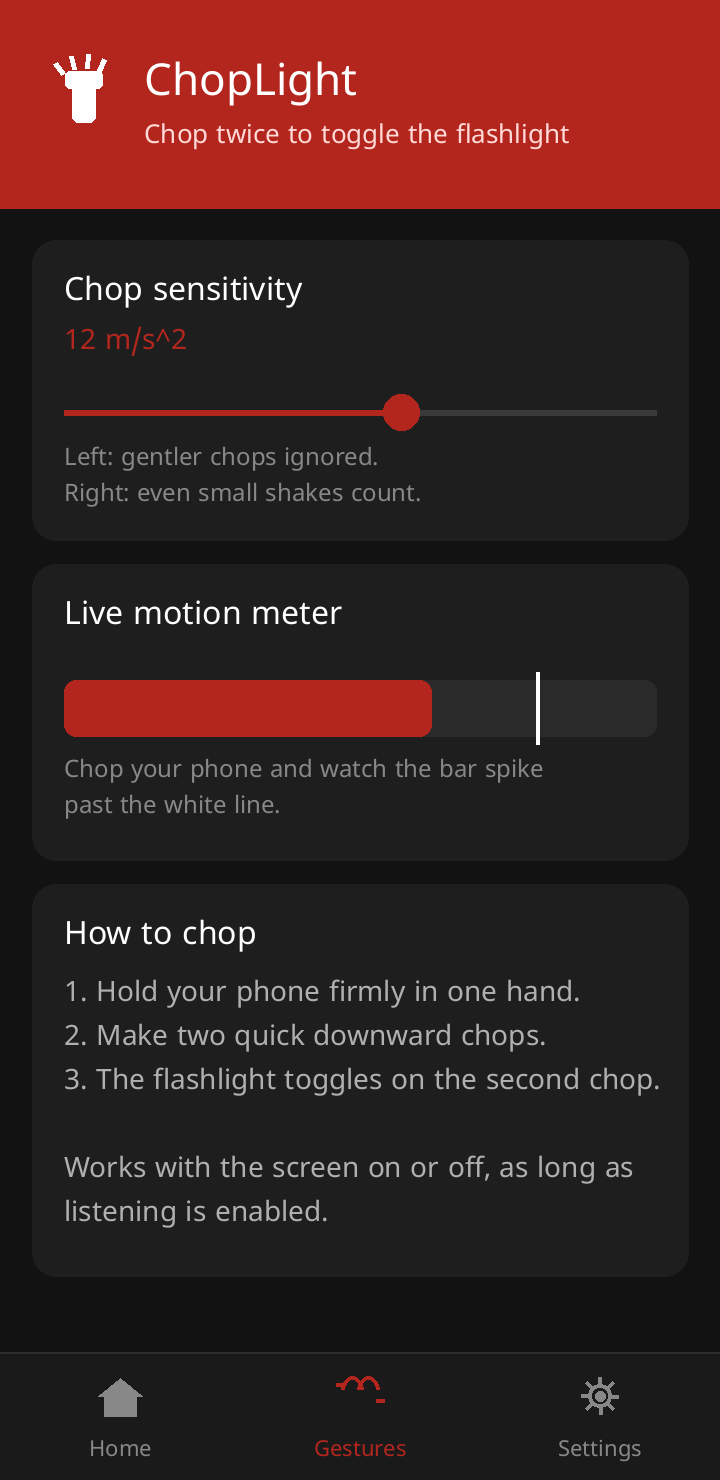
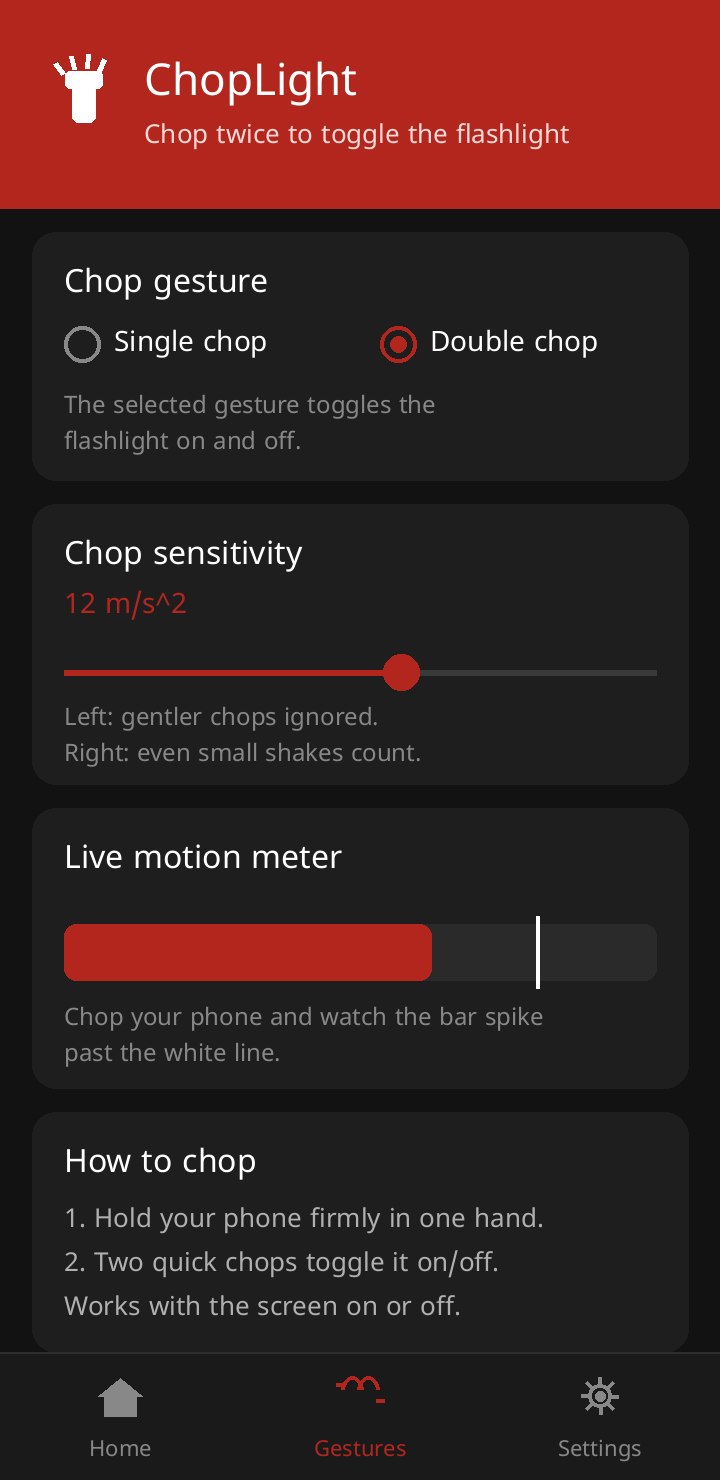
Selectable single/double chop gesture (v1.0.0)
- New 'Chop gesture' option in Gestures tab: Single chop / Double chop
  (default Double chop); selected gesture toggles the flashlight
- Mode-aware detection handler with 2.5s cooldown, live mode switching
- Updated how-to text per mode; re-rendered gestures screenshot
- versionName 1.0.0 (vc3)

diff --git a/app/src/main/java/com/deon/choplight/MainActivity.kt b/app/src/main/java/com/deon/choplight/MainActivity.kt
@@ -17,6 +17,7 @@ import android.os.Bundle
 import android.provider.Settings
 import android.view.View
 import android.widget.Button
+import android.widget.RadioGroup
 import android.widget.SeekBar
 import android.widget.Switch
 import android.widget.TextView
@@ -41,6 +42,10 @@ class MainActivity : Activity(), SensorEventListener {
     private lateinit var seekSensitivity: SeekBar
     private lateinit var tvSensitivityValue: TextView
     private lateinit var motionMeter: MotionMeterView
+    private lateinit var radioGesture: RadioGroup
+    private lateinit var tvHowto: TextView
+    private lateinit var tvHomeTip: TextView
+    private var gestureRadioGuard = false
 
     private var sensorManager: SensorManager? = null
     private var meterActive = false
@@ -67,6 +72,24 @@ class MainActivity : Activity(), SensorEventListener {
         seekSensitivity = findViewById(R.id.seek_sensitivity)
         tvSensitivityValue = findViewById(R.id.tv_sensitivity_value)
         motionMeter = findViewById(R.id.motion_meter)
+        radioGesture = findViewById(R.id.radio_gesture)
+        tvHowto = findViewById(R.id.tv_howto)
+        tvHomeTip = findViewById(R.id.tv_home_tip)
+
+        gestureRadioGuard = true
+        radioGesture.check(
+            if (prefs.gestureMode == GestureMode.SINGLE) R.id.radio_single
+            else R.id.radio_double
+        )
+        gestureRadioGuard = false
+        radioGesture.setOnCheckedChangeListener { _, checkedId ->
+            if (gestureRadioGuard) return@setOnCheckedChangeListener
+            prefs.gestureMode =
+                if (checkedId == R.id.radio_single) GestureMode.SINGLE
+                else GestureMode.DOUBLE
+            refreshGestureTexts()
+        }
+        refreshGestureTexts()
 
         navHome.setOnClickListener { showPage(0) }
         navGestures.setOnClickListener { showPage(1) }
@@ -199,6 +222,22 @@ class MainActivity : Activity(), SensorEventListener {
     private fun updateSensitivityLabel() {
         val t = prefs.peakThreshold
         tvSensitivityValue.text = String.format("%.0f m/s^2", t)
+    }
+
+    // ---------- gesture mode ----------
+
+    private fun refreshGestureTexts() {
+        if (prefs.gestureMode == GestureMode.SINGLE) {
+            tvHowto.text = "1. Hold your phone firmly in one hand.\n" +
+                "2. One quick chop toggles the flashlight on or off.\n" +
+                "\nWorks with the screen on or off, as long as listening is enabled."
+            tvHomeTip.text = "Tip: one quick chop toggles the torch on or off."
+        } else {
+            tvHowto.text = "1. Hold your phone firmly in one hand.\n" +
+                "2. Two quick downward chops toggle the flashlight on or off.\n" +
+                "\nWorks with the screen on or off, as long as listening is enabled."
+            tvHomeTip.text = "Tip: two quick chops toggle the torch on or off."
+        }
     }
 
     // ---------- live meter ----------

diff --git a/app/src/main/java/com/deon/choplight/ChopGestureHandler.kt b/app/src/main/java/com/deon/choplight/ChopGestureHandler.kt
@@ -1,0 +1,50 @@
+package com.deon.choplight
+
+/** Which chop gesture toggles the flashlight. */
+enum class GestureMode { SINGLE, DOUBLE }
+
+/**
+ * Owns the chop-gesture toggle decision. Pure Kotlin (no Android APIs) so the
+ * exact logic the service runs can be unit-tested on the JVM.
+ *
+ * - SINGLE: one accepted peak (above threshold, past the refractory period)
+ *   toggles the torch.
+ * - DOUBLE: two peaks inside the detector's pair window toggle the torch;
+ *   a lone single peak does nothing.
+ * - After any toggle, [ChopDetector.cooldownMs] must elapse before the next
+ *   toggle. The mode is read live via [mode], so switching modes takes
+ *   effect immediately.
+ */
+class ChopGestureHandler(
+    val detector: ChopDetector = ChopDetector(),
+    private val mode: () -> GestureMode,
+    private val doToggle: () -> Unit,
+) {
+    private var lastToggleMs = Long.MIN_VALUE / 2
+
+    init {
+        detector.onPeak = { nowMs -> onPeak(nowMs) }
+    }
+
+    /** Feed one accelerometer sample; call from the sensor callback. */
+    fun onSample(ax: Float, ay: Float, az: Float, nowMs: Long) {
+        val pairDone = detector.process(ax, ay, az, nowMs)
+        if (mode() == GestureMode.DOUBLE && pairDone &&
+            nowMs - lastToggleMs >= detector.cooldownMs
+        ) {
+            toggle(nowMs)
+        }
+    }
+
+    private fun onPeak(nowMs: Long) {
+        if (mode() == GestureMode.SINGLE && nowMs - lastToggleMs >= detector.cooldownMs) {
+            toggle(nowMs)
+        }
+    }
+
+    private fun toggle(nowMs: Long) {
+        doToggle()
+        lastToggleMs = nowMs
+        detector.noteToggle(nowMs)
+    }
+}

diff --git a/app/src/main/java/com/deon/choplight/ChopDetectionService.kt b/app/src/main/java/com/deon/choplight/ChopDetectionService.kt
@@ -37,6 +37,7 @@ class ChopDetectionService : Service(), SensorEventListener {
 
     private lateinit var prefs: Prefs
     private lateinit var detector: ChopDetector
+    private lateinit var gestureHandler: ChopGestureHandler
     private var sensorManager: SensorManager? = null
     private var sensorThread: HandlerThread? = null
     private var wakeLock: PowerManager.WakeLock? = null
@@ -52,6 +53,11 @@ class ChopDetectionService : Service(), SensorEventListener {
         super.onCreate()
         prefs = Prefs(this)
         detector = ChopDetector(peakThreshold = prefs.peakThreshold)
+        gestureHandler = ChopGestureHandler(
+            detector = detector,
+            mode = { prefs.gestureMode },
+            doToggle = { TorchController.toggle(this) },
+        )
         prefs.registerListener(prefsListener)
         createChannel()
     }
@@ -134,9 +140,7 @@ class ChopDetectionService : Service(), SensorEventListener {
         if (event.sensor.type != Sensor.TYPE_ACCELEROMETER) return
         val now = System.currentTimeMillis()
         val v = event.values
-        if (detector.process(v[0], v[1], v[2], now)) {
-            TorchController.toggle(this)
-        }
+        gestureHandler.onSample(v[0], v[1], v[2], now)
     }
 
     override fun onAccuracyChanged(sensor: Sensor?, accuracy: Int) = Unit

diff --git a/app/src/main/java/com/deon/choplight/ChopDetector.kt b/app/src/main/java/com/deon/choplight/ChopDetector.kt
@@ -34,6 +34,23 @@ class ChopDetector(
     var lastLinearMagnitude = 0f
         private set
 
+    /**
+     * Invoked with the peak timestamp each time a motion peak is accepted
+     * (above threshold, past the refractory period) — regardless of whether it
+     * completes a pair. Lets callers implement single-peak gestures.
+     */
+    var onPeak: ((nowMs: Long) -> Unit)? = null
+
+    /**
+     * Record an externally-triggered toggle (e.g. single chop turning the
+     * torch off): restarts the pair cooldown and drops any pending first peak
+     * so a stale peak can never pair afterwards.
+     */
+    fun noteToggle(nowMs: Long) {
+        lastTriggerTime = nowMs
+        firstPeakTime = -1L
+    }
+
     fun reset() {
         gravity[0] = 0f; gravity[1] = 0f; gravity[2] = 0f
         prevMag = 0f
@@ -72,6 +89,7 @@ class ChopDetector(
             rising = false
             if (nowMs - lastPeakTime >= refractoryMs) {
                 lastPeakTime = nowMs
+                onPeak?.invoke(nowMs)
                 if (firstPeakTime < 0) {
                     firstPeakTime = nowMs
                 } else {

diff --git a/app/src/main/java/com/deon/choplight/Prefs.kt b/app/src/main/java/com/deon/choplight/Prefs.kt
@@ -21,6 +21,14 @@ class Prefs(context: Context) {
     val peakThreshold: Float
         get() = 20f - 14f * (sensitivity / 100f)
 
+    /** Which chop gesture toggles the flashlight. Default: double chop. */
+    var gestureMode: GestureMode
+        get() = if (sp.getString("gesture_mode", "double") == "single")
+            GestureMode.SINGLE else GestureMode.DOUBLE
+        set(v) = sp.edit().putString(
+            "gesture_mode", if (v == GestureMode.SINGLE) "single" else "double"
+        ).apply()
+
     fun registerListener(l: SharedPreferences.OnSharedPreferenceChangeListener) =
         sp.registerOnSharedPreferenceChangeListener(l)
 

diff --git a/shots/render.py b/shots/render.py
@@ -152,40 +152,55 @@ im.save(f"{SHOT_DIR}/home.png")
 # ---------------- SCREEN 2: GESTURES ----------------
 im, d = base()
 header(d)
+# gesture mode card (new: single / double chop selector)
+card(d, 16, 116, 328, 124)
+txt(d, (32, 132), "Chop gesture", font(16, True), WHITE)
+
+
+def radio(d, cx, cy, label, checked):
+    r = 9
+    d.ellipse([(cx - r) * S, (cy - r) * S, (cx + r) * S, (cy + r) * S],
+              outline=RED if checked else GREY2, width=2 * S)
+    if checked:
+        d.ellipse([(cx - 4) * S, (cy - 4) * S, (cx + 4) * S, (cy + 4) * S], fill=RED)
+    txt(d, (cx + 16, cy), label, font(14), WHITE, anchor="lm")
+
+
+radio(d, 41, 172, "Single chop", False)
+radio(d, 199, 172, "Double chop", True)
+txt(d, (32, 196), "The selected gesture toggles the", font(12), GREY2)
+txt(d, (32, 214), "flashlight on and off.", font(12), GREY2)
 # sensitivity card
-card(d, 16, 120, 328, 150)
-txt(d, (32, 136), "Chop sensitivity", font(16, True), WHITE)
-txt(d, (32, 162), "12 m/s^2", font(14, True), RED)
-ty = 206  # slider track y
+card(d, 16, 252, 328, 140)
+txt(d, (32, 268), "Chop sensitivity", font(16, True), WHITE)
+txt(d, (32, 294), "12 m/s^2", font(14, True), RED)
+ty = 336  # slider track y
 d.line([32 * S, ty * S, 328 * S, ty * S], fill=TRACK, width=3 * S)
 px = 32 + (328 - 32) * 0.57  # progress 57
 d.line([32 * S, ty * S, px * S, ty * S], fill=RED, width=3 * S)
 d.ellipse([(px - 9) * S, (ty - 9) * S, (px + 9) * S, (ty + 9) * S], fill=RED)
-txt(d, (32, 222), "Left: gentler chops ignored.", font(12), GREY2)
-txt(d, (32, 240), "Right: even small shakes count.", font(12), GREY2)
+txt(d, (32, 352), "Left: gentler chops ignored.", font(12), GREY2)
+txt(d, (32, 370), "Right: even small shakes count.", font(12), GREY2)
 # motion meter card
-card(d, 16, 282, 328, 148)
-txt(d, (32, 298), "Live motion meter", font(16, True), WHITE)
-my = 340  # meter y
+card(d, 16, 404, 328, 140)
+txt(d, (32, 420), "Live motion meter", font(16, True), WHITE)
+my = 462  # meter y
 rr(d, [32, my, 328, my + 28], 6, TORCH_OFF)
 d.rounded_rectangle([32 * S, my * S, (32 + 296 * 0.62) * S, (my + 28) * S],
                     radius=6 * S, fill=RED)
 thx = 32 + 296 * 0.80  # threshold tick
 d.line([thx * S, (my - 4) * S, thx * S, (my + 32) * S], fill=WHITE, width=2 * S)
-txt(d, (32, my + 38), "Chop your phone and watch the bar spike", font(12), GREY2)
-txt(d, (32, my + 56), "past the white line.", font(12), GREY2)
+txt(d, (32, 502), "Chop your phone and watch the bar spike", font(12), GREY2)
+txt(d, (32, 520), "past the white line.", font(12), GREY2)
 # how-to card
-card(d, 16, 442, 328, 196)
-txt(d, (32, 458), "How to chop", font(16, True), WHITE)
+card(d, 16, 556, 328, 120)
+txt(d, (32, 572), "How to chop", font(16, True), WHITE)
 steps = ["1. Hold your phone firmly in one hand.",
-         "2. Make two quick downward chops.",
-         "3. The flashlight toggles on the second chop.",
-         "",
-         "Works with the screen on or off, as long as",
-         "listening is enabled."]
-yy = 488
+         "2. Two quick chops toggle it on/off.",
+         "Works with the screen on or off."]
+yy = 602
 for st in steps:
-    txt(d, (32, yy), st if st else " ", font(14), GREY)
+    txt(d, (32, yy), st, font(13), GREY)
     yy += 22
 navbar(d, 1)
 im.save(f"{SHOT_DIR}/gestures.png")

diff --git a/README.md b/README.md
@@ -1,10 +1,11 @@
 # ChopLight
 
-Toggle your flashlight with Motorola's chop-chop gesture — two quick chopping motions, light on. Two more, light off.
+Toggle your flashlight with a chopping motion — pick single or double chop, gesture, light on/off.
 
 ## Features
 
-- **Chop-chop gesture detection** — accelerometer-based double-chop detection with a 2.5s cooldown
+- **Selectable chop gesture** — choose Single chop or Double chop in the Gestures tab (default: Double chop); the selected gesture toggles the flashlight
+- **Accelerometer-based detection** — peak detection with a 2.5s cooldown to avoid re-triggers
 - **Background listening** — a foreground service keeps detecting the gesture even with the screen off (partial wake lock)
 - **Sensitivity slider** — tune the detection threshold (6–20 m/s²)
 - **Live motion meter** — watch the accelerometer bar spike past the threshold line while you chop
